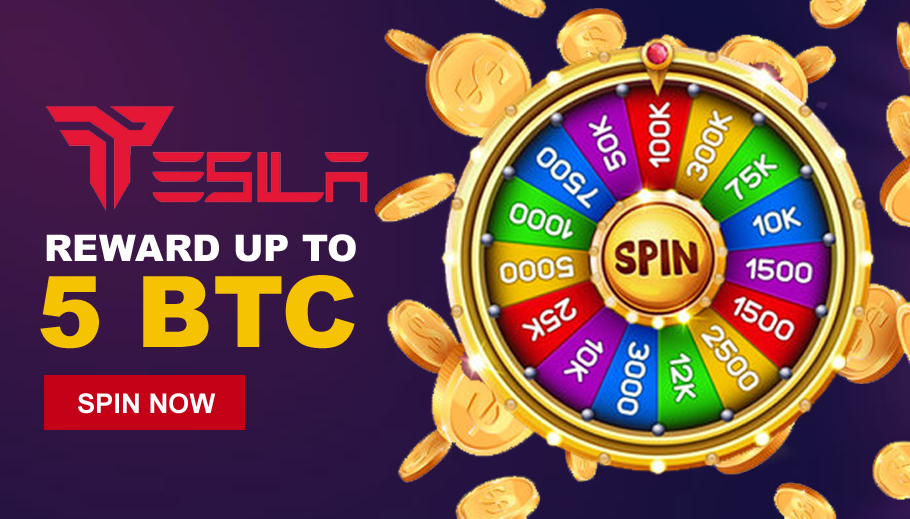
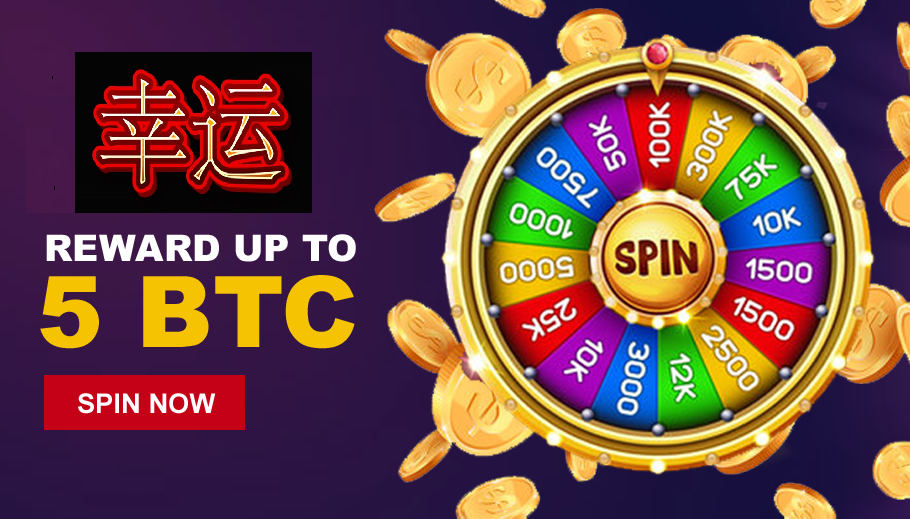
u

Changed region(s): [[0.0308, 0.0925, 0.4308, 0.4316]]

diff --git a/src/components/layouts/Aside.js b/src/components/layouts/Aside.js
@@ -296,7 +296,7 @@ export const Aside = () => {
                                     <img
                                         src={LuckyGaoLogo}
                                         alt="logo"
-                                        className="w-[50%]"
+                                        className="w-[60%]" style={{"marginLeft":"25%"}}
                                     />
                                     {/* <a href='/' className='text-[32px] font-semibold text-[#FF0000]'>LuckyGao</a> */}
                                 </a>

diff --git a/src/components/layouts/Header.js b/src/components/layouts/Header.js
@@ -180,10 +180,10 @@ export const Header = () => {
                             }`} />
                     </div>
 
-                    <img
+                    <img 
                         src={
                             isMobileDevice() ? LuckyGaoLogo : LuckyGaoLogo
-                        }
+                        } 
                         alt="Teslla"
                         className={`w-[65px] h-[auto] ml-2 ${expandMenuState ? "hidden" : "ml:flex"
                             } logo-mobile`}
